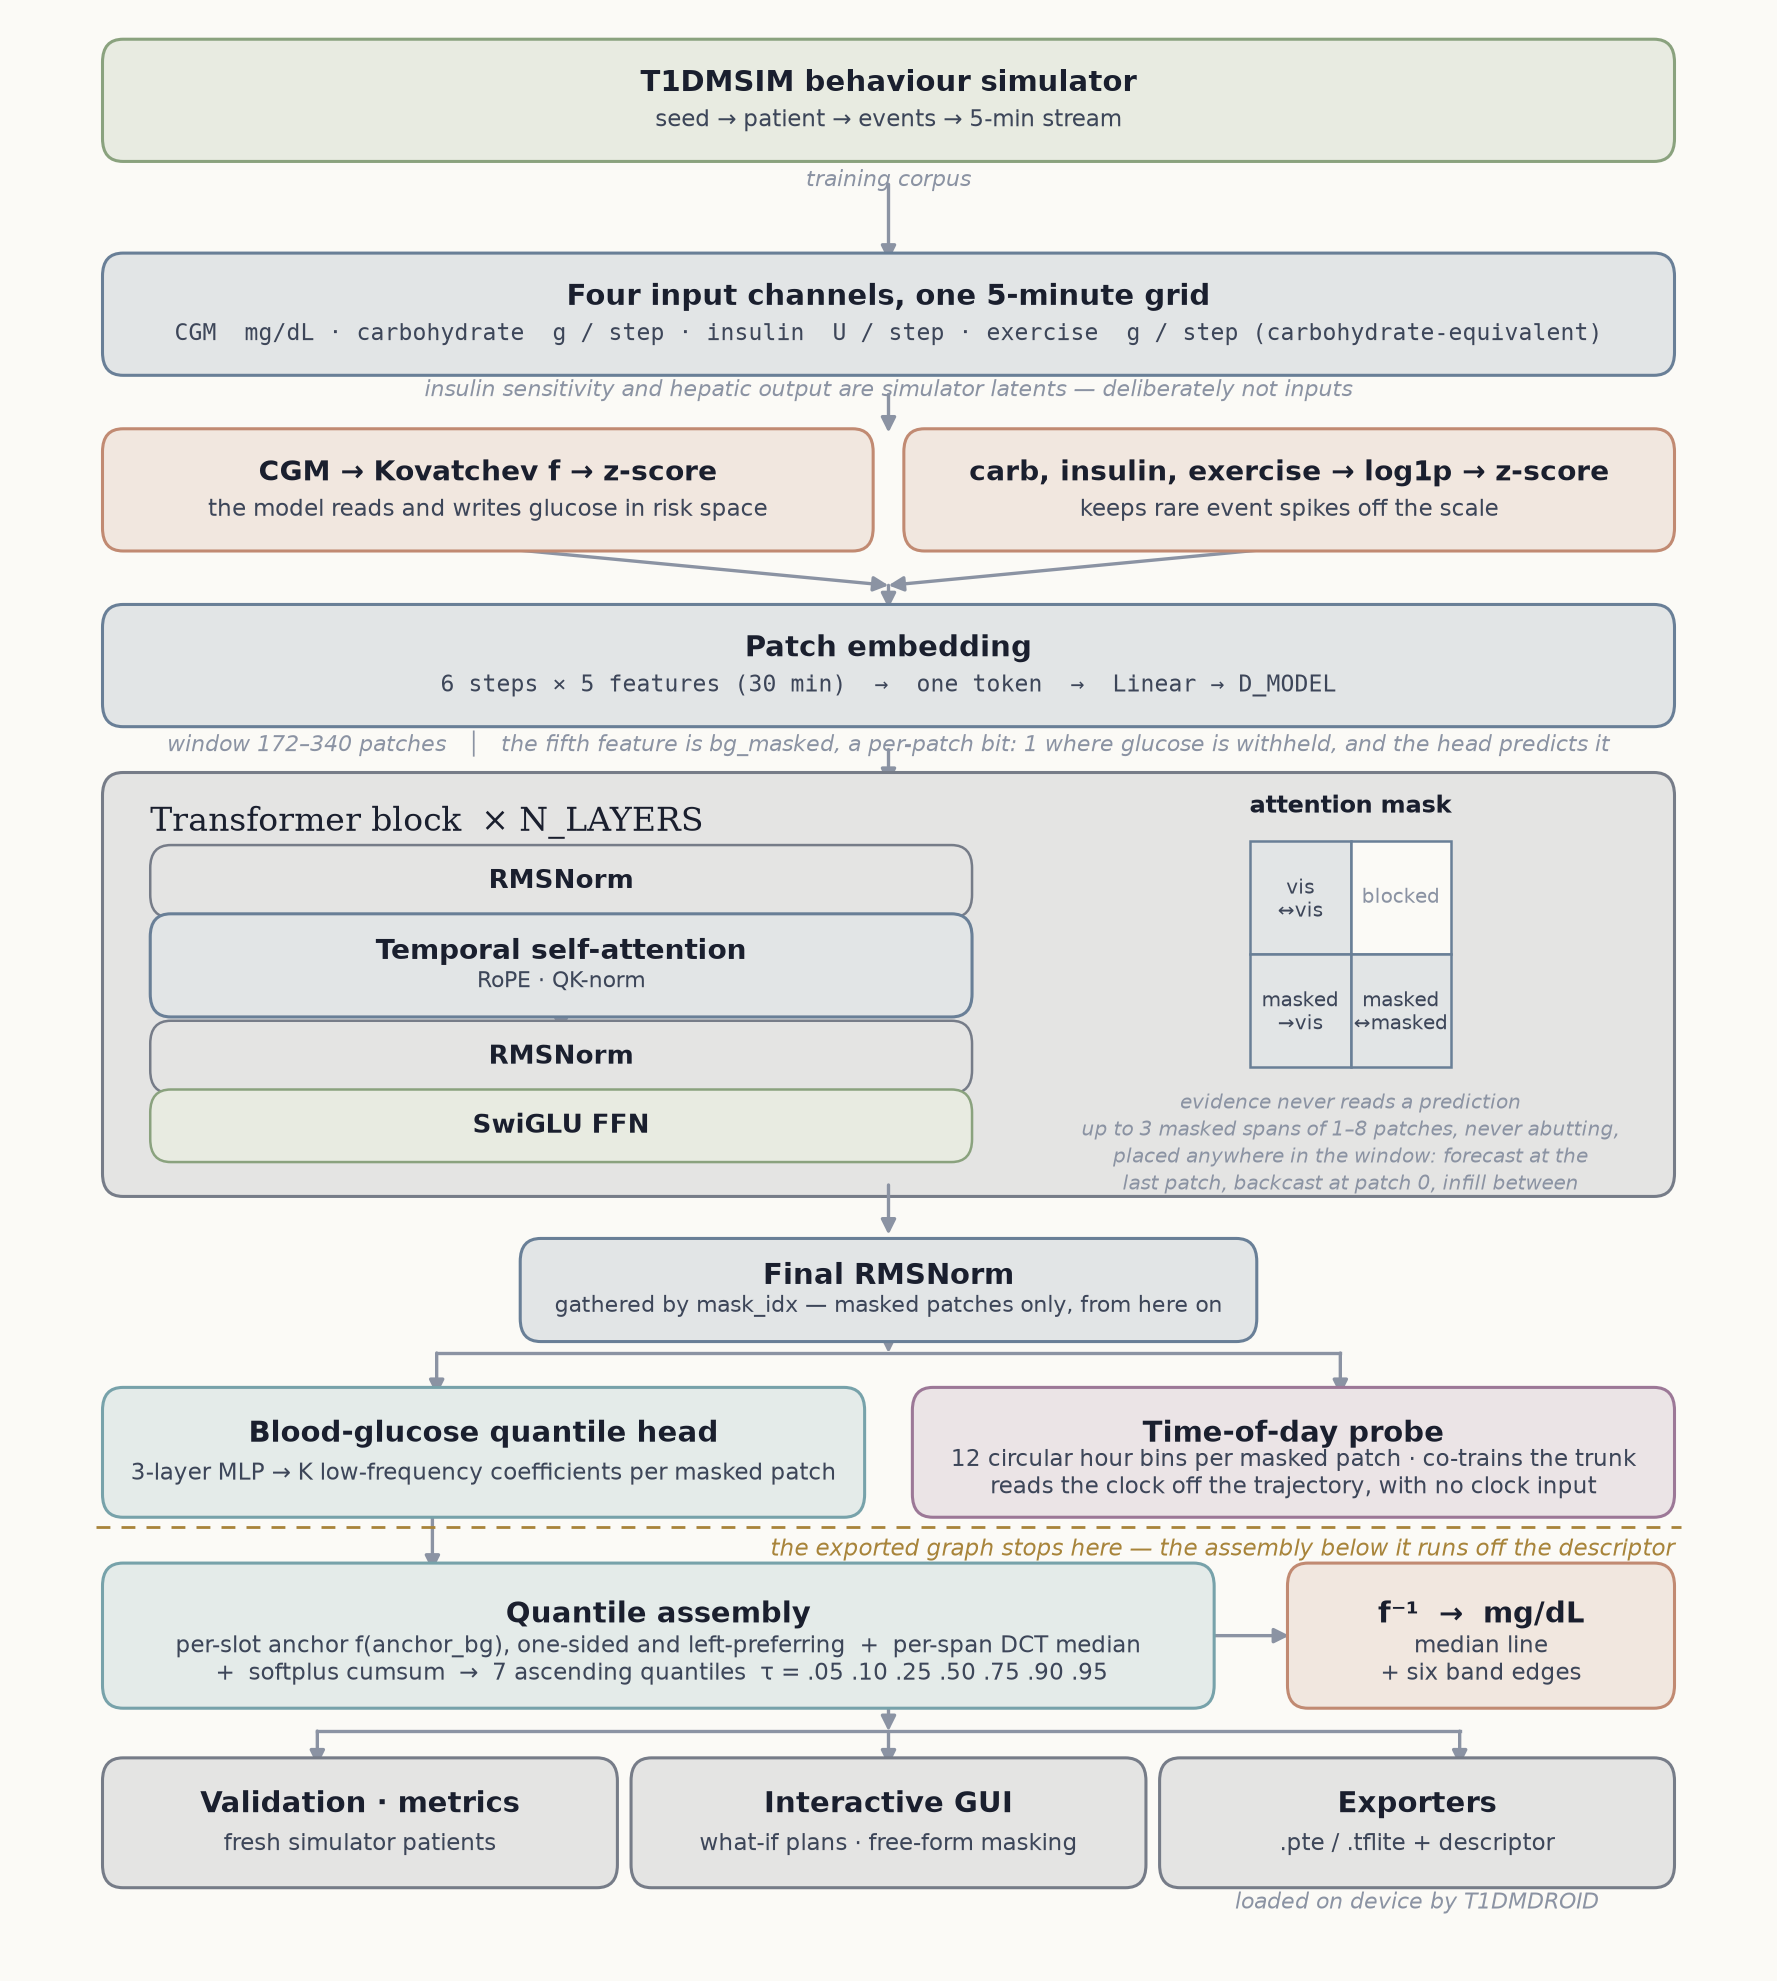
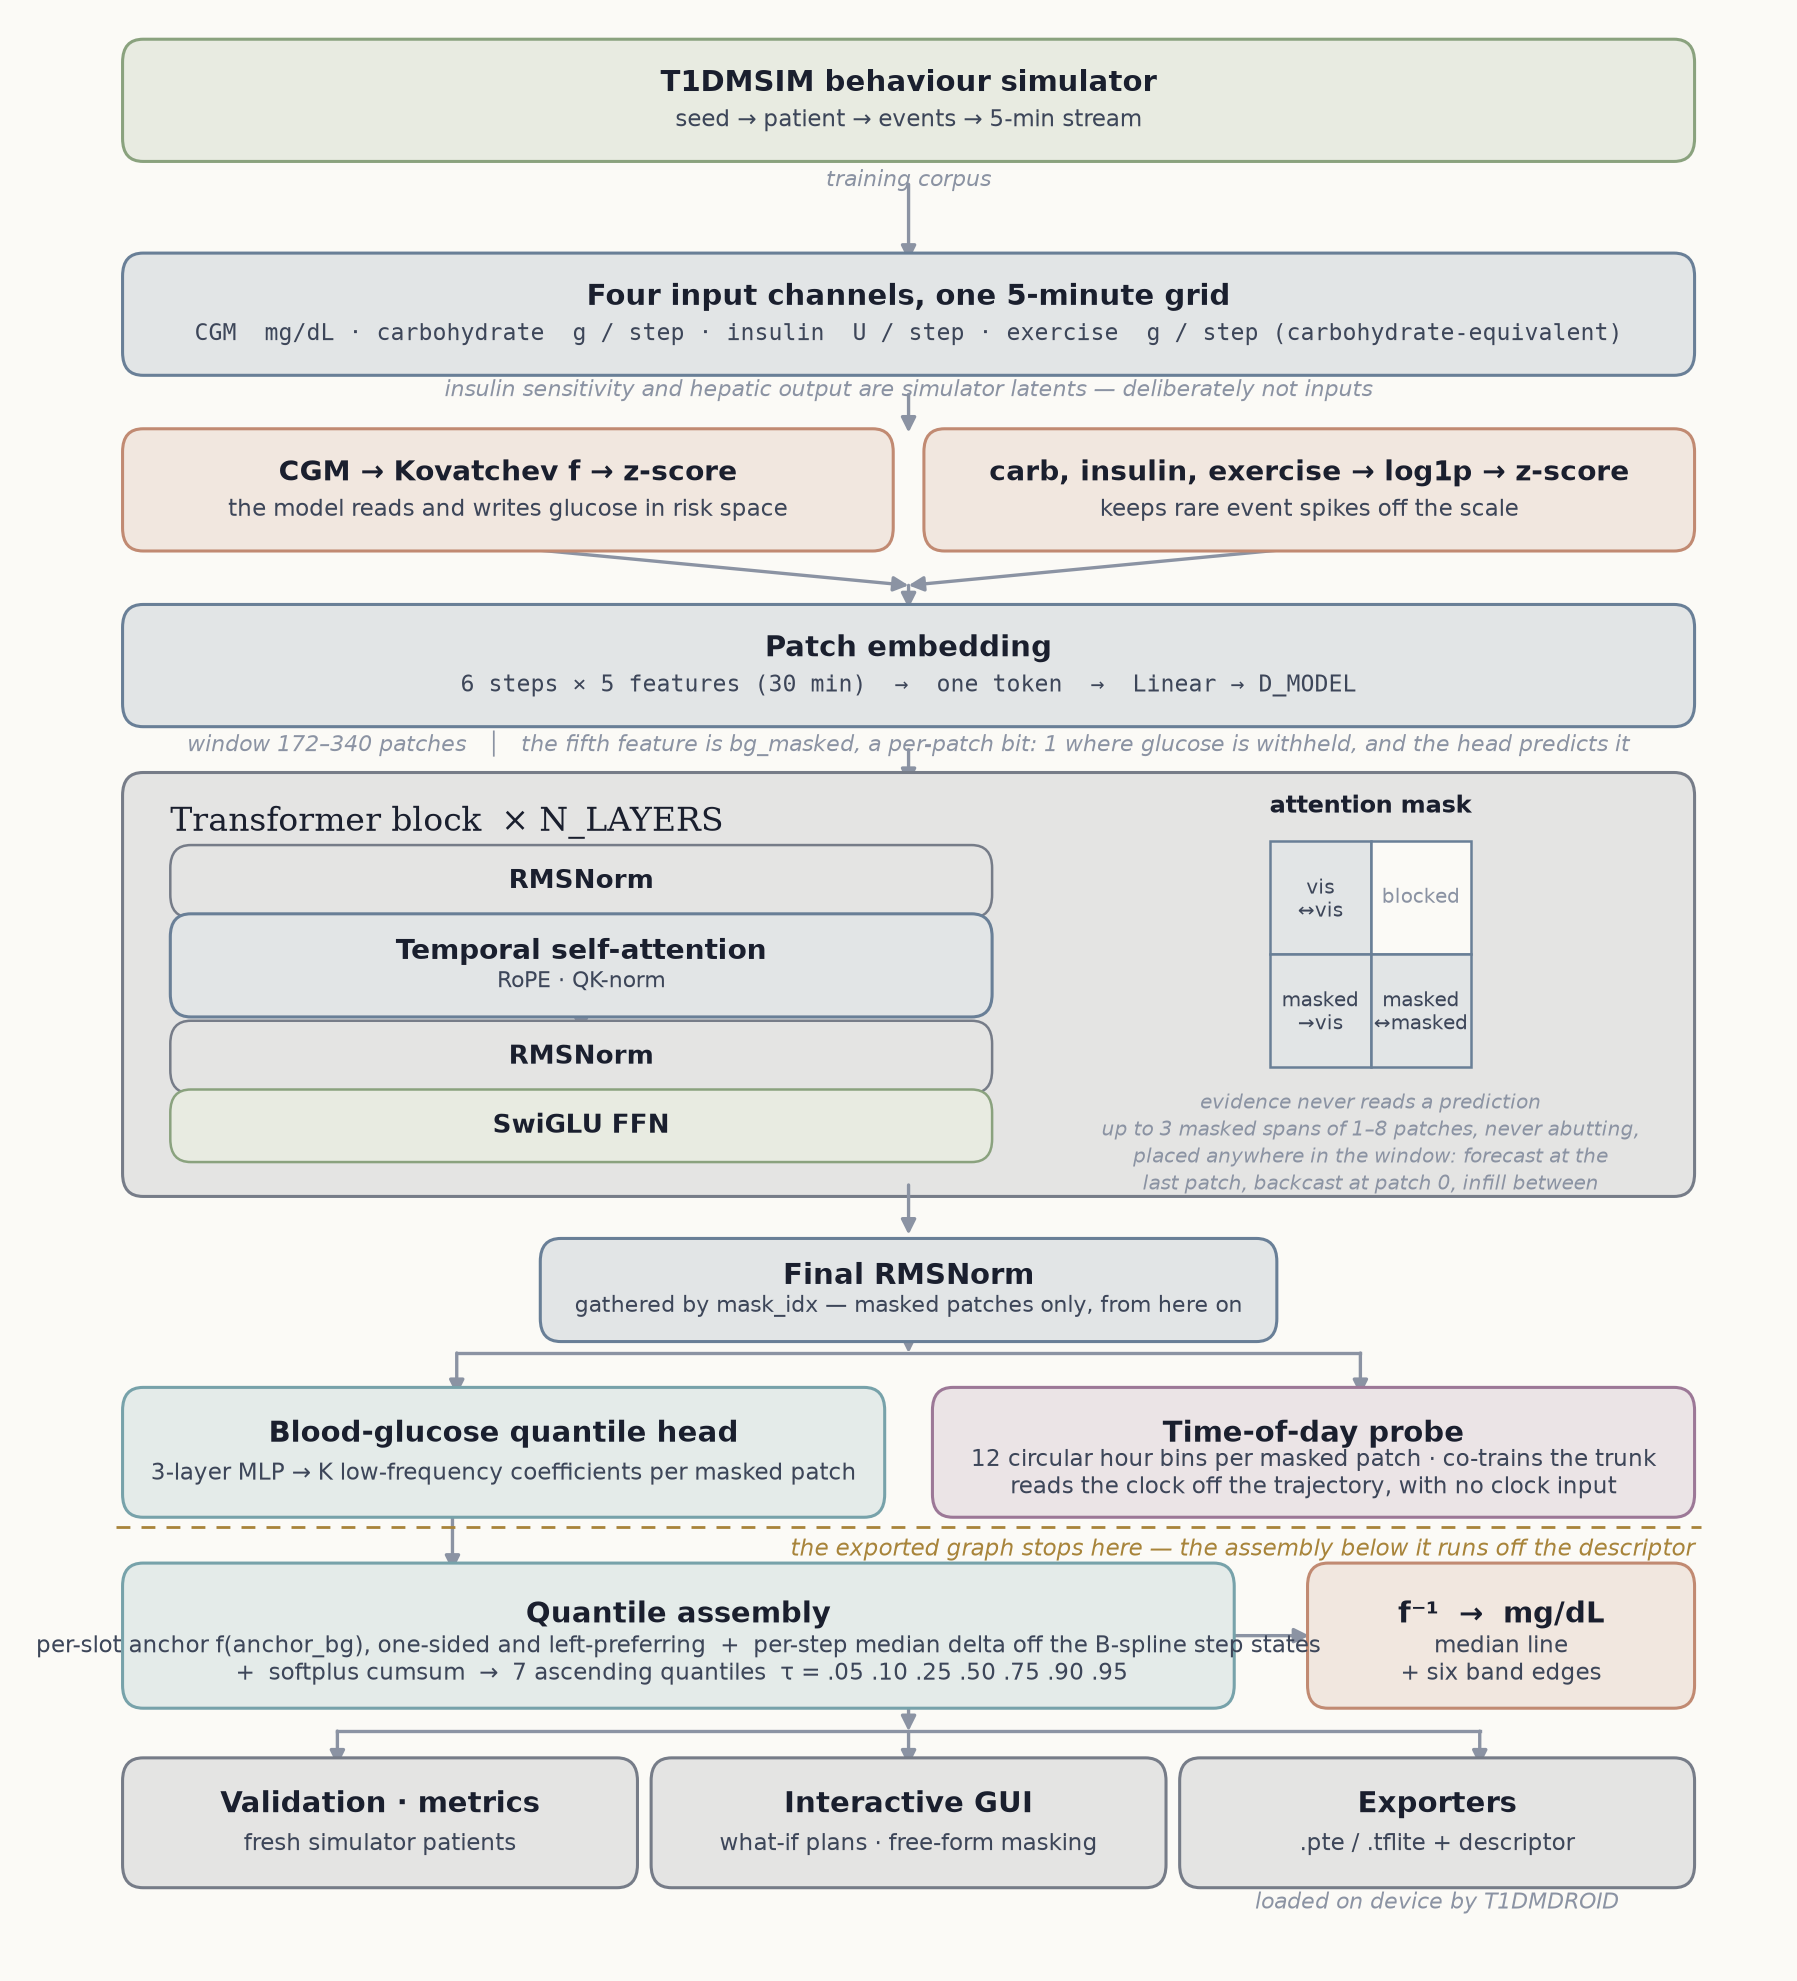
Redraw the README figures and drop the capacity ladder

diff --git a/README.md b/README.md
@@ -35,7 +35,7 @@ on-device in [T1DMDROID](https://github.com/0xdeadf1sh/T1DMDROID).
 - [Inputs and outputs](#inputs-and-outputs)
 - [Training](#training)
 - [Inference modes](#inference-modes)
-- [Capacity ladder](#capacity-ladder)
+- [Capacity](#capacity)
 - [Scoring rules and protocols](#scoring-rules-and-protocols)
 - [Other tools](#other-tools)
 - [Simulator cache](#simulator-cache)
@@ -91,8 +91,7 @@ reads to encode circadian phase.
 The model is patient-agnostic. There is no learned per-patient vector; identity
 is whatever the 84–168 hour context window implies.
 
-Every dimension lives in `config.py`, and `resize_model.py` rewrites it. The
-capacities on the ladder run from 39 k to 2.2 M parameters on the same code.
+Every dimension lives in `config.py`, and `resize_model.py` rewrites it.
 
 
 ## Masked-BG objective
@@ -307,21 +306,15 @@ quadrature, so uncertainty grows monotonically instead of resetting
 at each seam.
 
 
-## Capacity ladder
+## Capacity
 
-Three capacities. Each is set by `D_MODEL`, `N_LAYERS` and `N_HEADS` alone:
-`FFN_DIM`, `BG_HEAD_HIDDEN` and `TIME_PROBE_HIDDEN` are multiples of `D_MODEL`
-and follow it.
+Capacity is set by `D_MODEL`, `N_LAYERS` and `N_HEADS` alone: `FFN_DIM`,
+`BG_HEAD_HIDDEN` and `TIME_PROBE_HIDDEN` are multiples of `D_MODEL` and follow
+it.
 
-| Model | Architecture | Parameters |
-| --- | --- | ---: |
-| nano | D=32, 2L, 2H, FFN=128 | 37,779 |
-| small | D=64, 4L, 4H, FFN=256 | 278,547 |
-| medium | D=128, 8L, 8H, FFN=512 | 2,155,539 |
-
-Trainable parameters at `PATCH_DIM = PATCH_SIZE × N_INPUT_FEATURES = 30`; the
-model carries no buffers. `resize_model.py` instantiates a capacity and prints its
-exact count, computed from the architecture rather than targeted.
+`resize_model.py` instantiates a capacity and prints its exact trainable
+parameter count at `PATCH_DIM = PATCH_SIZE × N_INPUT_FEATURES = 30`, computed
+from the architecture rather than targeted; the model carries no buffers.
 
 Accuracy, wall-clock and peak-memory figures are not listed: none has been
 measured against this architecture, and this repository publishes no checkpoint
@@ -534,7 +527,7 @@ python3.11 -m venv .venv-export
 
 ```bash
 python gui.py --seed 42
-python gui.py --checkpoint models/medium/checkpoints/t1dmai_best.pt --seed 42
+python gui.py --checkpoint checkpoints/t1dmai_best.pt --seed 42
 ```
 
 A pygame front end for inspecting a checkpoint one patient at a time: the median
